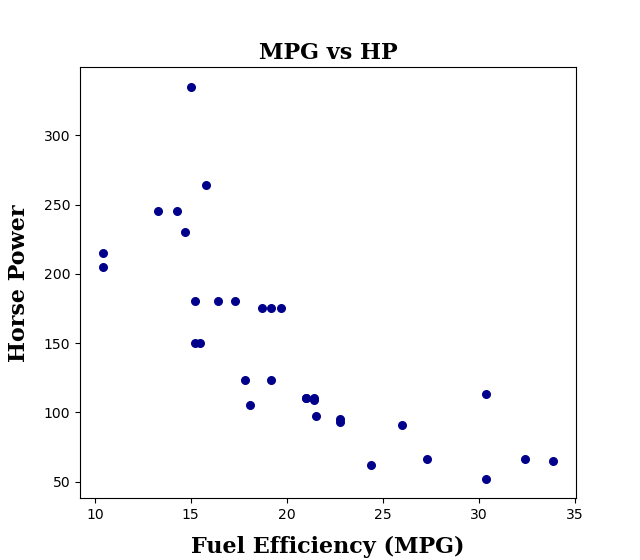
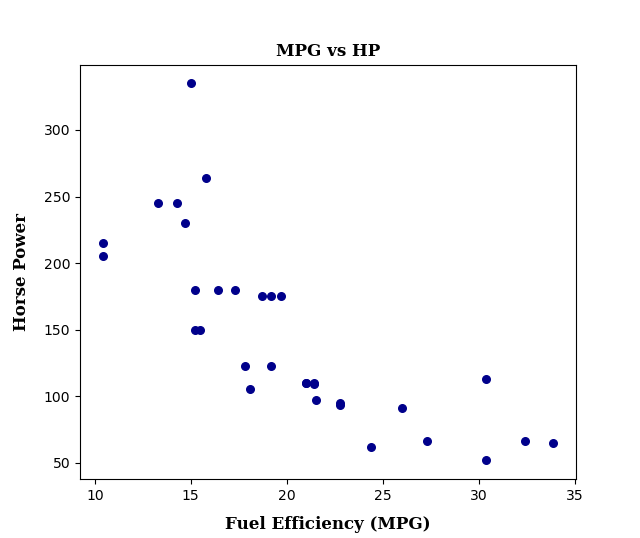
Added scatter plot script and updated scatter plot media for README.

diff --git a/pandas_scatter_plot.py b/pandas_scatter_plot.py
@@ -1,0 +1,41 @@
+import pandas as pd
+import numpy as np
+from matplotlib import pyplot as plt
+
+# Import CSV mtcars
+mydata = pd.read_csv('https://gist.githubusercontent.com/ZeccaLehn/4e06d2575eb9589dbe8c365d61cb056c/raw/64f1660f38ef523b2a1a13be77b002b98665cdfe/mtcars.csv')
+# Edit element of column header
+mydata.rename(columns={'Unnamed: 0':'brand'}, inplace=True)
+print(mydata.head(20))
+print(mydata.info())
+
+#Format font styling
+font = {'family': 'serif',
+        'color': 'black',
+        'weight': 'bold',
+        'size': 12
+        }
+
+#Plot
+plt.scatter(mydata['mpg'],
+            mydata['hp'],
+            c='DarkBlue',
+            s=30
+            )
+#Add line of best fit
+plt.plot(np.unique(mydata['mpg']),
+         np.poly1d(np.polyfit(mydata['mpg'],
+                              mydata['hp'], 1))(np.unique(mydata['mpg'])),
+         c='DarkBlue'
+         )
+plt.xlabel('Fuel Efficiency (MPG)',
+           fontdict=font,
+           labelpad=10
+           )
+plt.ylabel('Horse Power',
+           fontdict=font,
+           labelpad=10
+           )
+plt.title('MPG vs HP',
+          fontdict=font)
+plt.show()
